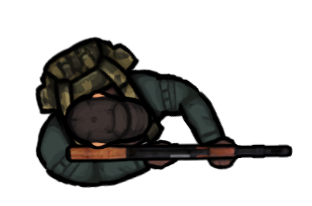
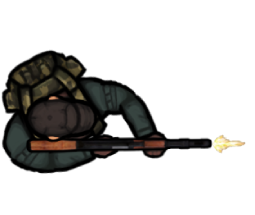
Added gun flash and updated the map

diff --git a/settings.py b/settings.py
@@ -21,7 +21,7 @@ CELL_SIZE_SCALED = 40 * scale_x
 COLLECT_ITEM_SIZE_SCALED = 20 * scale_x
 
 # General Settings
-FPS = 60
+FPS = 70
 MAX_LEVEL = 3  # Maximum number of levels in the game
 
 # Colors
@@ -35,8 +35,8 @@ GRAY = (128, 128, 128)
 # Sizes
 collect_item_size = 20
 PLAYER_SIZE = int(35 * scale_x) 
-BULLET_SIZE = int(3 * scale_x)
-BULLET_SPEED = int(5 * scale_x)
+BULLET_SIZE = int(2 * scale_x)
+BULLET_SPEED = int(7 * scale_x)
 ZOMBIE_SIZE = int(35 * scale_x)
 ZOMBIE_SPEED = int(1 * scale_x)
 torch_radius = int(180 * scale_x)

diff --git a/player.py b/player.py
@@ -80,8 +80,8 @@ class Player:
         self.health = 100
         self.bullets = []
         self.current_gun = "handgun"  # Default gun
-        self.isShotgun = False
-        self.isRifle = False
+        self.isShotgun = True
+        self.isRifle = True
 
         # Initialize animation dictionary
         self.animation_dict = {}
